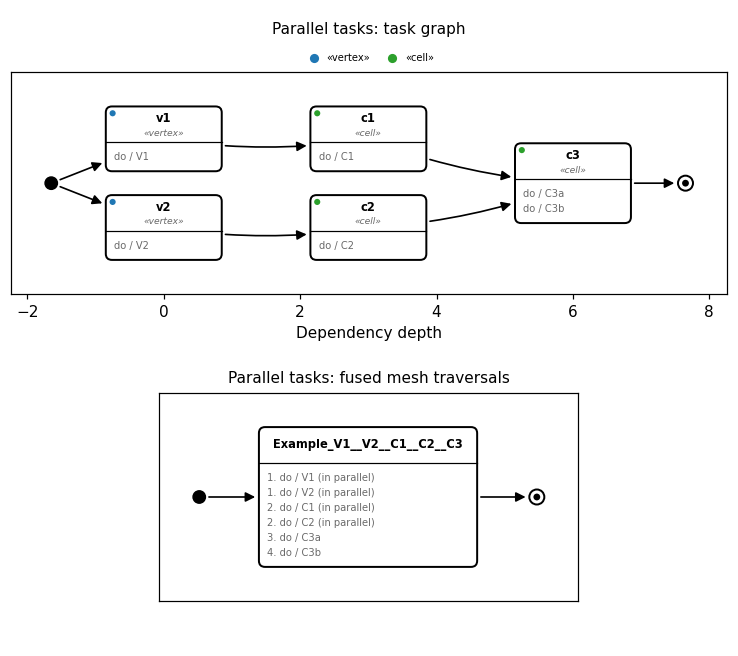
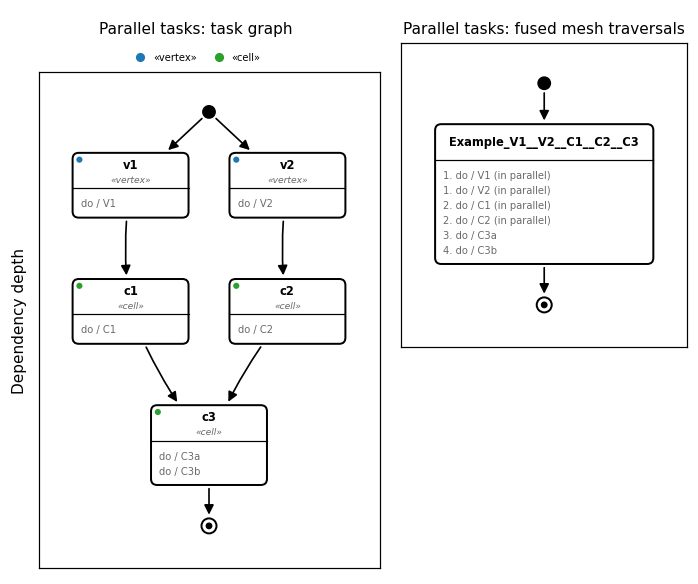
Task graph visualisation: lay out top to bottom
Graph.visualise() stacks the dependency layers top to bottom, places the
tasks of a layer side by side (sorted by their dependencies' positions),
draws self-loops right of the states and puts the pseudostates above and
below. The compiled step sequence becomes a vertical chain. The FuseSteps
illustrations place both figures side by side and are regenerated.

Changed region(s): [[0.0, 0.0308, 0.9928, 0.9863]]

diff --git a/src/peano4/api/taskgraph/Graph.py b/src/peano4/api/taskgraph/Graph.py
@@ -68,7 +68,7 @@ class Graph:
         declares via use_cell()/use_face()/use_vertex() (each annotated
         with its Task.DataAccess qualifier) and whether it repeats - as one
         block of text per task, ordered root to sink by dependency depth
-        exactly like visualise() lays its layers out left to right.
+        exactly like visualise() lays its layers out top to bottom.
         """
         import peano4.api
 
@@ -80,7 +80,7 @@ class Graph:
         # deepest of its dependencies. Recursive but memoised - task graphs
         # here are small and acyclic by construction. @see visualise(),
         # which computes the very same notion of depth to lay its layers
-        # out left to right.
+        # out top to bottom.
         depth_of_task = {}
 
         def depth(task: Task) -> int:
@@ -121,17 +121,17 @@ class Graph:
         Render this task graph with matplotlib as a UML state diagram: one
         rounded-rectangle state per task, a solid transition arrow from
         every dependency to the task that depends on it. Tasks are laid
-        out left to right by dependency depth (a task without dependencies
-        sits on the left; everything that - directly or transitively -
-        depends on it sits to its right), so following the transitions
-        always moves rightwards, exactly like reading a state diagram's
-        flow of control.
+        out top to bottom by dependency depth (a task without dependencies
+        sits at the top; everything that - directly or transitively -
+        depends on it sits below it), so following the transitions always
+        moves downwards, exactly like reading a state diagram's flow of
+        control. The tasks of one layer sit side by side.
 
         A filled black circle - the UML initial pseudostate - transitions
         into every task that has no dependencies; every task nothing else
         depends on transitions into a bullseye - the UML final pseudostate.
         A task with has_to_repeat set (i.e. not None) is additionally drawn
-        with a small self-transition loop above its state, the standard UML
+        with a small self-transition loop right of its state, the standard UML
         notation for "this state can re-trigger itself", labelled with the
         task's has_to_repeat string itself.
 
@@ -194,8 +194,8 @@ class Graph:
         BODY_PADDING = 0.14
         MIN_WIDTH = 1.7
         CHAR_WIDTH = 0.10
-        HORIZONTAL_GAP = 1.3
-        VERTICAL_GAP = 0.35
+        HORIZONTAL_GAP = 0.6
+        VERTICAL_GAP = 0.9
 
         def activity_lines(task: Task):
             lines = [f"do / {action_set.get_action_set_name()}" for action_set in task.action_sets]
@@ -220,32 +220,48 @@ class Graph:
                 BODY_PADDING + len(lines) * ACTIVITY_LINE_HEIGHT + 0.5 * BODY_PADDING if lines else 0
             )
 
-        x_step = max(width_of_task.values()) + HORIZONTAL_GAP
+        SELF_LOOP_WIDTH = 0.4
+        SELF_LOOP_LABEL_CHAR_WIDTH = 0.065
+        PSEUDOSTATE_OFFSET = 0.6
 
-        # Stack the tasks of every layer top to bottom by their actual
-        # (content-dependent) height, then centre the resulting column
-        # around y=0 so layers with a different number of tasks still
-        # line up symmetrically around the horizontal midline.
+        # Horizontal space a task's self-transition loop and its label take
+        # right of the task's state
+        def self_loop_extent(task: Task) -> float:
+            if not task.has_to_repeat:
+                return 0.0
+            return SELF_LOOP_WIDTH + 0.06 + SELF_LOOP_LABEL_CHAR_WIDTH * len(task.has_to_repeat)
+
+        # Every layer forms one row. The rows are stacked top to bottom,
+        # each as tall as its tallest state, and the states within a row
+        # are placed side by side, centred around x=0. Within a row, the
+        # states are sorted by the mean horizontal position of their
+        # dependencies, so they sit below their predecessors and fewer
+        # transitions cross.
         position_of_task = {}
-        for layer, tasks_in_layer in layers.items():
-            y = 0.0
-            rows = []
+        row_y = 0.0
+        for layer in sorted(layers):
+            tasks_in_layer = layers[layer]
+            if layer > 0:
+                tasks_in_layer = sorted(
+                    tasks_in_layer,
+                    key=lambda task: sum(position_of_task[dependency][0] for dependency in task.dependencies)
+                    / len(task.dependencies),
+                )
+            row_height = max(height_of_task[task] for task in tasks_in_layer)
+            row_width = sum(width_of_task[task] + self_loop_extent(task) for task in tasks_in_layer) + HORIZONTAL_GAP * (
+                len(tasks_in_layer) - 1
+            )
+            x = -row_width / 2
             for task in tasks_in_layer:
-                h = height_of_task[task]
-                rows.append((task, y - h / 2))
-                y -= h + VERTICAL_GAP
-            column_height = -y - VERTICAL_GAP
-            offset = column_height / 2
-            for task, center_y in rows:
-                position_of_task[task] = (layer * x_step, center_y + offset)
+                position_of_task[task] = (x + width_of_task[task] / 2, row_y - row_height / 2)
+                x += width_of_task[task] + self_loop_extent(task) + HORIZONTAL_GAP
+            row_y -= row_height + VERTICAL_GAP
+        bottom_y = row_y + VERTICAL_GAP
 
         root_tasks = [task for task in self.tasks if not task.dependencies]
         sink_tasks = [
             task for task in self.tasks if not any(task in other.dependencies for other in self.tasks)
         ]
-        SELF_LOOP_HEIGHT = 0.4
-        SELF_LOOP_LABEL_HEIGHT = 0.22
-        PSEUDOSTATE_OFFSET = x_step * 0.55
 
         # Text is sized in points, so - to guarantee it actually fits the
         # (content-dependent) box widths/heights computed above in data
@@ -257,19 +273,15 @@ class Graph:
         PADDING = 0.5
 
         min_x = min(position_of_task[task][0] - width_of_task[task] / 2 for task in self.tasks)
-        max_x = max(position_of_task[task][0] + width_of_task[task] / 2 for task in self.tasks)
-        min_y = min(position_of_task[task][1] - height_of_task[task] / 2 for task in self.tasks)
-        max_y = max(position_of_task[task][1] + height_of_task[task] / 2 for task in self.tasks)
-        for task in self.tasks:
-            if task.has_to_repeat:
-                max_y = max(
-                    max_y,
-                    position_of_task[task][1] + height_of_task[task] / 2 + SELF_LOOP_HEIGHT + SELF_LOOP_LABEL_HEIGHT,
-                )
+        max_x = max(
+            position_of_task[task][0] + width_of_task[task] / 2 + self_loop_extent(task) for task in self.tasks
+        )
+        min_y = bottom_y
+        max_y = 0.0
         if root_tasks:
-            min_x = min(min_x, -PSEUDOSTATE_OFFSET - 0.09)
+            max_y = PSEUDOSTATE_OFFSET + 0.09
         if sink_tasks:
-            max_x = max(max_x, max(layers.keys()) * x_step + PSEUDOSTATE_OFFSET + 0.11)
+            min_y = bottom_y - PSEUDOSTATE_OFFSET - 0.11
         min_x, max_x, min_y, max_y = min_x - PADDING, max_x + PADDING, min_y - PADDING, max_y + PADDING
 
         # Reserve a fixed number of inches around the axes for title/
@@ -279,7 +291,7 @@ class Graph:
         # come out to exactly INCH_PER_UNIT inches per data unit in both
         # directions.
         LEGEND_HEIGHT = 0.26
-        LEFT_CHROME, RIGHT_CHROME, TOP_CHROME, BOTTOM_CHROME = 0.1, 0.1, 0.4 + LEGEND_HEIGHT, 0.5
+        LEFT_CHROME, RIGHT_CHROME, TOP_CHROME, BOTTOM_CHROME = 0.35, 0.1, 0.4 + LEGEND_HEIGHT, 0.15
         data_width_inches = (max_x - min_x) * INCH_PER_UNIT
         data_height_inches = (max_y - min_y) * INCH_PER_UNIT
         figure_width = data_width_inches + LEFT_CHROME + RIGHT_CHROME
@@ -379,11 +391,15 @@ class Graph:
             if task.has_to_repeat:
                 x, y = position_of_task[task]
                 w, h = width_of_task[task], height_of_task[task]
-                top_y = y + h / 2
-                left_x, right_x = x - 0.18 * w, x + 0.18 * w
-                loop_height = SELF_LOOP_HEIGHT
+                right_x = x + w / 2
+                upper_y, lower_y = y + 0.18 * h, y - 0.18 * h
                 path = Path(
-                    [(left_x, top_y), (left_x, top_y + loop_height), (right_x, top_y + loop_height), (right_x, top_y)],
+                    [
+                        (right_x, upper_y),
+                        (right_x + SELF_LOOP_WIDTH, upper_y),
+                        (right_x + SELF_LOOP_WIDTH, lower_y),
+                        (right_x, lower_y),
+                    ],
                     [Path.MOVETO, Path.CURVE4, Path.CURVE4, Path.CURVE4],
                 )
                 axes.add_patch(
@@ -398,16 +414,16 @@ class Graph:
                 )
                 axes.annotate(
                     task.has_to_repeat,
-                    (x, top_y + loop_height + 0.06),
-                    ha="center", va="bottom", zorder=3, fontsize=6, style="italic", color="crimson",
+                    (right_x + SELF_LOOP_WIDTH + 0.06, y),
+                    ha="left", va="center", zorder=3, fontsize=6, style="italic", color="crimson",
                 )
 
         # UML initial pseudostate (filled circle) transitioning into every
         # task without dependencies, and UML final pseudostate (bullseye)
         # collecting every task nothing else depends on.
         if root_tasks:
-            y = sum(position_of_task[task][1] for task in root_tasks) / len(root_tasks)
-            initial_pos = (-PSEUDOSTATE_OFFSET, y)
+            x = sum(position_of_task[task][0] for task in root_tasks) / len(root_tasks)
+            initial_pos = (x, PSEUDOSTATE_OFFSET)
             initial_patch = Circle(initial_pos, 0.09, facecolor="black", edgecolor="black", zorder=3)
             axes.add_patch(initial_patch)
             for task in root_tasks:
@@ -426,9 +442,8 @@ class Graph:
                 )
 
         if sink_tasks:
-            max_layer = max(layers.keys())
-            y = sum(position_of_task[task][1] for task in sink_tasks) / len(sink_tasks)
-            final_pos = (max_layer * x_step + PSEUDOSTATE_OFFSET, y)
+            x = sum(position_of_task[task][0] for task in sink_tasks) / len(sink_tasks)
+            final_pos = (x, bottom_y - PSEUDOSTATE_OFFSET)
             final_outer = Circle(final_pos, 0.11, facecolor="white", edgecolor="black", linewidth=1.3, zorder=3)
             axes.add_patch(final_outer)
             axes.add_patch(Circle(final_pos, 0.05, facecolor="black", edgecolor="none", zorder=4))
@@ -476,7 +491,8 @@ class Graph:
             columnspacing=1.2,
         )
 
-        axes.set_xlabel("Dependency depth")
+        axes.set_ylabel("Dependency depth")
+        axes.set_xticks([])
         axes.set_yticks([])
         axes.set_aspect("equal")
         # Non-blocking: several related graphs (e.g. a project's Setup/

diff --git a/src/peano4/api/taskgraph/compiler/ReportCompiledStepSequence.py b/src/peano4/api/taskgraph/compiler/ReportCompiledStepSequence.py
@@ -34,7 +34,7 @@ def report_compiled_step_sequence(
     listing of the sequence and, for each step, its action sets plus the
     cell/face/vertex submodels it uses;
     LoggerVerbosity.VISUALISATION draws a flow chart in the same UML state
-    diagram style as Graph.visualise() - a left-to-right chain of states
+    diagram style as Graph.visualise() - a top-to-bottom chain of states
     (one per step, in sequence order, since a compiled sequence has no
     dependency structure left to lay out - it already is the order),
     listing each step's action sets as enumerated "<number>. do / <name>"
@@ -150,7 +150,7 @@ def _visualise_compiled_step_sequence(steps, title: str) -> None:
     compartment listing "do / <name>" per action set plus "cell / <name>",
     "face / <name>", "vertex / <name>" per kind of mesh data the step uses,
     self-loops for repeating steps, initial/final pseudostates), but laid
-    out as a single left-to-right chain following steps' list order, since a
+    out as a single top-to-bottom chain following steps' list order, since a
     compiled sequence - unlike a Graph - has no dependency structure left to
     derive layers from; it already is the order.
     """
@@ -167,9 +167,10 @@ def _visualise_compiled_step_sequence(steps, title: str) -> None:
     BODY_PADDING = 0.14
     MIN_WIDTH = 1.7
     CHAR_WIDTH = 0.10
-    HORIZONTAL_GAP = 1.3
-    SELF_LOOP_HEIGHT = 0.4
-    SELF_LOOP_LABEL_HEIGHT = 0.22
+    VERTICAL_GAP = 0.6
+    SELF_LOOP_WIDTH = 0.4
+    SELF_LOOP_LABEL_CHAR_WIDTH = 0.065
+    PSEUDOSTATE_OFFSET = 0.6
     INCH_PER_UNIT = 0.62
     PADDING = 0.5
 
@@ -193,21 +194,25 @@ def _visualise_compiled_step_sequence(steps, title: str) -> None:
             BODY_PADDING + len(lines) * ACTIVITY_LINE_HEIGHT + 0.5 * BODY_PADDING if lines else 0
         )
 
-    x_step = max(width_of_step.values()) + HORIZONTAL_GAP
-    position_of_step = {step: (i * x_step, 0.0) for i, step in enumerate(steps)}
-    PSEUDOSTATE_OFFSET = x_step * 0.55
+    # One step per row, stacked top to bottom and centred around x=0
+    position_of_step = {}
+    row_y = 0.0
+    for step in steps:
+        position_of_step[step] = (0.0, row_y - height_of_step[step] / 2)
+        row_y -= height_of_step[step] + VERTICAL_GAP
+    bottom_y = row_y + VERTICAL_GAP
 
-    max_height = max(height_of_step.values())
-    max_repeat_extra = (
-        SELF_LOOP_HEIGHT + SELF_LOOP_LABEL_HEIGHT if any(step.has_to_repeat for step in steps) else 0.0
-    )
+    def self_loop_extent(step) -> float:
+        if not step.has_to_repeat:
+            return 0.0
+        return SELF_LOOP_WIDTH + 0.06 + SELF_LOOP_LABEL_CHAR_WIDTH * len(step.has_to_repeat)
 
-    min_x = -PSEUDOSTATE_OFFSET - 0.09 - PADDING
-    max_x = (len(steps) - 1) * x_step + PSEUDOSTATE_OFFSET + 0.11 + PADDING
-    min_y = -max_height / 2 - PADDING
-    max_y = max_height / 2 + max_repeat_extra + PADDING
+    min_x = -max(width_of_step.values()) / 2 - PADDING
+    max_x = max(width_of_step[step] / 2 + self_loop_extent(step) for step in steps) + PADDING
+    min_y = bottom_y - PSEUDOSTATE_OFFSET - 0.11 - PADDING
+    max_y = PSEUDOSTATE_OFFSET + 0.09 + PADDING
 
-    LEFT_CHROME, RIGHT_CHROME, TOP_CHROME, BOTTOM_CHROME = 0.1, 0.1, 0.4, 0.5
+    LEFT_CHROME, RIGHT_CHROME, TOP_CHROME, BOTTOM_CHROME = 0.1, 0.1, 0.4, 0.15
     data_width_inches = (max_x - min_x) * INCH_PER_UNIT
     data_height_inches = (max_y - min_y) * INCH_PER_UNIT
     figure_width = data_width_inches + LEFT_CHROME + RIGHT_CHROME
@@ -284,14 +289,14 @@ def _visualise_compiled_step_sequence(steps, title: str) -> None:
         if step.has_to_repeat:
             x, y = position_of_step[step]
             w, h = width_of_step[step], height_of_step[step]
-            top_y = y + h / 2
-            left_x, right_x = x - 0.18 * w, x + 0.18 * w
+            right_x = x + w / 2
+            upper_y, lower_y = y + 0.18 * h, y - 0.18 * h
             path = Path(
                 [
-                    (left_x, top_y),
-                    (left_x, top_y + SELF_LOOP_HEIGHT),
-                    (right_x, top_y + SELF_LOOP_HEIGHT),
-                    (right_x, top_y),
+                    (right_x, upper_y),
+                    (right_x + SELF_LOOP_WIDTH, upper_y),
+                    (right_x + SELF_LOOP_WIDTH, lower_y),
+                    (right_x, lower_y),
                 ],
                 [Path.MOVETO, Path.CURVE4, Path.CURVE4, Path.CURVE4],
             )
@@ -307,12 +312,12 @@ def _visualise_compiled_step_sequence(steps, title: str) -> None:
             )
             axes.annotate(
                 step.has_to_repeat,
-                (x, top_y + SELF_LOOP_HEIGHT + 0.06),
-                ha="center", va="bottom", zorder=3, fontsize=6, style="italic", color="crimson",
+                (right_x + SELF_LOOP_WIDTH + 0.06, y),
+                ha="left", va="center", zorder=3, fontsize=6, style="italic", color="crimson",
             )
 
     first_pos = position_of_step[steps[0]]
-    initial_pos = (-PSEUDOSTATE_OFFSET, first_pos[1])
+    initial_pos = (first_pos[0], PSEUDOSTATE_OFFSET)
     initial_patch = Circle(initial_pos, 0.09, facecolor="black", edgecolor="black", zorder=3)
     axes.add_patch(initial_patch)
     axes.add_patch(
@@ -324,7 +329,7 @@ def _visualise_compiled_step_sequence(steps, title: str) -> None:
     )
 
     last_pos = position_of_step[steps[-1]]
-    final_pos = (last_pos[0] + PSEUDOSTATE_OFFSET, last_pos[1])
+    final_pos = (last_pos[0], bottom_y - PSEUDOSTATE_OFFSET)
     final_outer = Circle(final_pos, 0.11, facecolor="white", edgecolor="black", linewidth=1.3, zorder=3)
     axes.add_patch(final_outer)
     axes.add_patch(Circle(final_pos, 0.05, facecolor="black", edgecolor="none", zorder=4))

diff --git a/src/peano4/api/taskgraph/compiler/fuse-steps-illustrations.py b/src/peano4/api/taskgraph/compiler/fuse-steps-illustrations.py
@@ -13,9 +13,9 @@ PYTHONPATH=src python3 src/peano4/api/taskgraph/compiler/fuse-steps-illustration
 The script builds a few small task graphs, compiles them with
 peano4.api.taskgraph.compiler.FuseSteps.translate(), and writes one PNG per
 example next to this script: the input task graph (as drawn by
-peano4.api.taskgraph.Graph.visualise()) on top, the compiled sequence of
-mesh traversals (as drawn by
-peano4.api.taskgraph.compiler.ReportCompiledStepSequence) underneath. The
+peano4.api.taskgraph.Graph.visualise()) on the left, the compiled sequence
+of mesh traversals (as drawn by
+peano4.api.taskgraph.compiler.ReportCompiledStepSequence) on the right. The
 PNGs are referenced from the documentation of FuseSteps.translate().
 
 """
@@ -75,10 +75,10 @@ def _write_illustration(graph: Graph, title: str, file_name: str):
     _visualise_compiled_step_sequence(steps, f"{title}: fused mesh traversals")
     steps_image = _render_current_figure()
 
-    width = max(graph_image.width, steps_image.width)
-    result = Image.new("RGB", (width, graph_image.height + steps_image.height), "white")
-    result.paste(graph_image, ((width - graph_image.width) // 2, 0))
-    result.paste(steps_image, ((width - steps_image.width) // 2, graph_image.height))
+    height = max(graph_image.height, steps_image.height)
+    result = Image.new("RGB", (graph_image.width + steps_image.width, height), "white")
+    result.paste(graph_image, (0, 0))
+    result.paste(steps_image, (graph_image.width, 0))
     result.save(os.path.join(os.path.dirname(os.path.abspath(__file__)), file_name))
 
 
